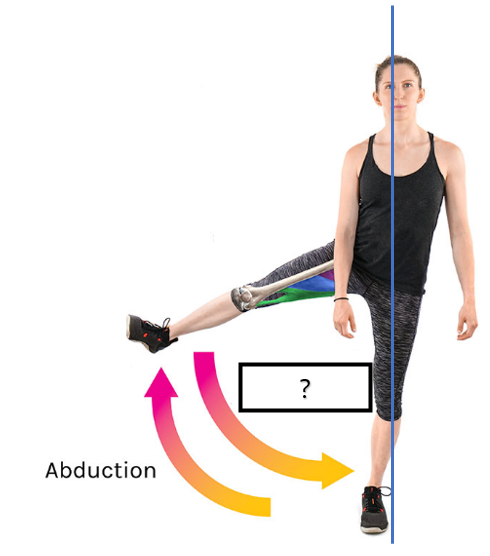
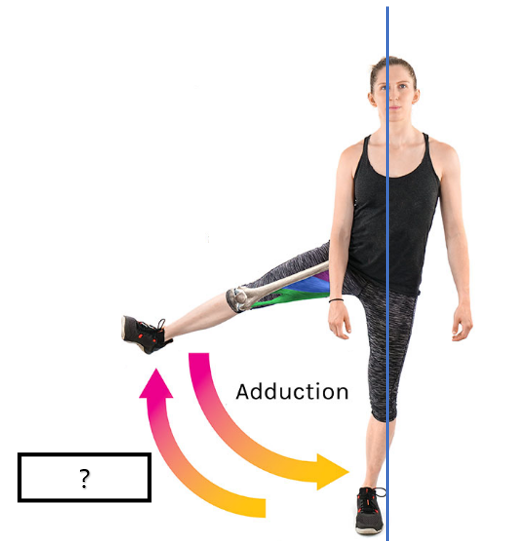
Add files via upload

Changed region(s): [[0.0306, 0.0, 0.9796, 1.0]]

diff --git a/quiz-data.js b/quiz-data.js
@@ -2362,7 +2362,7 @@ window.MEDICAL_ENGLISH_QUIZ_DATA = {
                                                                  "src":  "question-images/abduction-1.png"
                                                              },
                                                              {
-                                                                 "source":  "Pasted image 20260331143732.png",
+                                                                 "source":  "Pasted image 20260331143846.png",
                                                                  "type":  "question-mark",
                                                                  "src":  "question-images/abduction-2.png"
                                                              }
@@ -7563,7 +7563,7 @@ window.MEDICAL_ENGLISH_QUIZ_DATA = {
                                                                  "src":  "question-images/adduction-1.png"
                                                              },
                                                              {
-                                                                 "source":  "Pasted image 20260331143846.png",
+                                                                 "source":  "Pasted image 20260331143732.png",
                                                                  "type":  "question-mark",
                                                                  "src":  "question-images/adduction-2.png"
                                                              }
@@ -8572,7 +8572,7 @@ window.MEDICAL_ENGLISH_QUIZ_DATA = {
     "missingEntries":  [
 
                        ],
-    "generatedAt":  "2026-04-01 14:56:13",
+    "generatedAt":  "2026-04-01 22:09:48",
     "weeks":  [
                   {
                       "title":  "1주차 - 용어의 구성",
